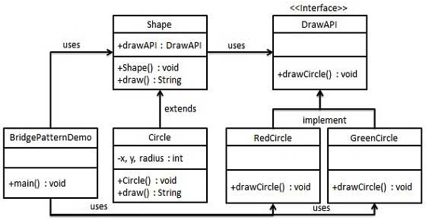
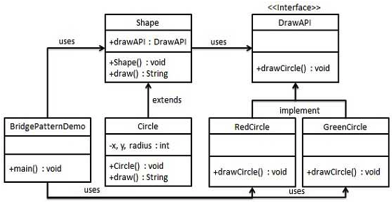
.

Changed region(s): [[0.0, 0.0, 1.0, 1.0], [0.5204, 0.1782, 0.5816, 0.2376], [0.1531, 0.1782, 0.1837, 0.2376]]

diff --git a/README.md b/README.md
@@ -284,6 +284,7 @@ http://wiki.gurubee.net/pages/viewpage.action?pageId=1507417 <br/>
 <br/><br/>
 
 ## 15. 브리지 패턴 (Bridge Pattern)
+![bridge](./images/bridge.png)<br/>
 구현부에서 추상층을 분리하여 각자 독립적으로 변형할 수 있게 하는 패턴.<br/>
 추상화와 구현을 분리해 둘을 각각 따로 발전시킬 수 있다.<br/>
 두 클래스 간의 강한 결합을 제거하기 위해서 사요하는 패턴이다.<br/>
@@ -292,7 +293,7 @@ http://wiki.gurubee.net/pages/viewpage.action?pageId=1507417 <br/>
 이렇게 되면 두 상위 타입을 구현하는 구현체들은 변경이 가능한 상태가 된다.<br/>
 <br/>
 => bridge 패키지 참조.<br/>
-![bridge_test](./images/bridge_test.jpg)<br/>
+![bridge_test](./images/bridge_test.png)<br/>
 https://www.tutorialspoint.com/design_pattern/bridge_pattern.htm <br/>
 https://ko.wikipedia.org/wiki/%EB%B8%8C%EB%A6%AC%EC%A7%80_%ED%8C%A8%ED%84%B4 <br/>
 <br/>
